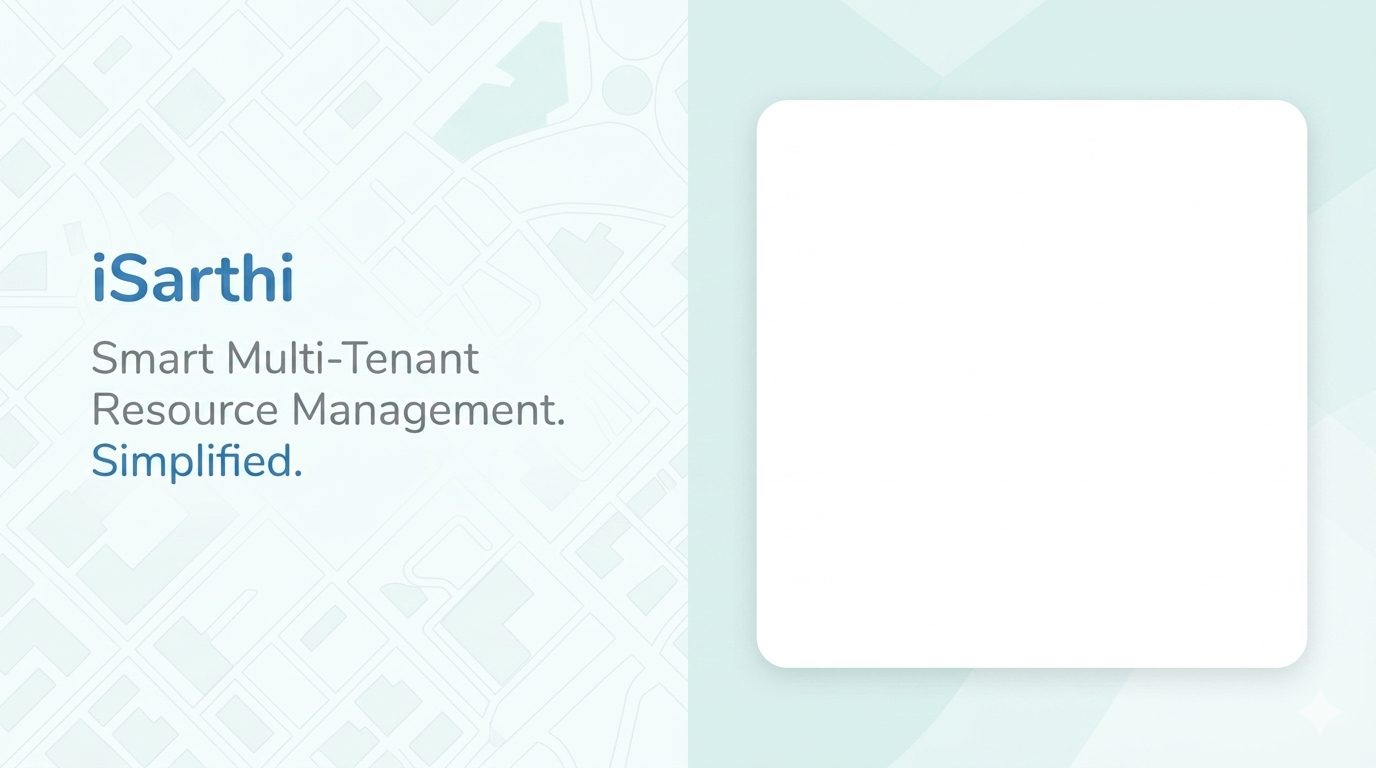
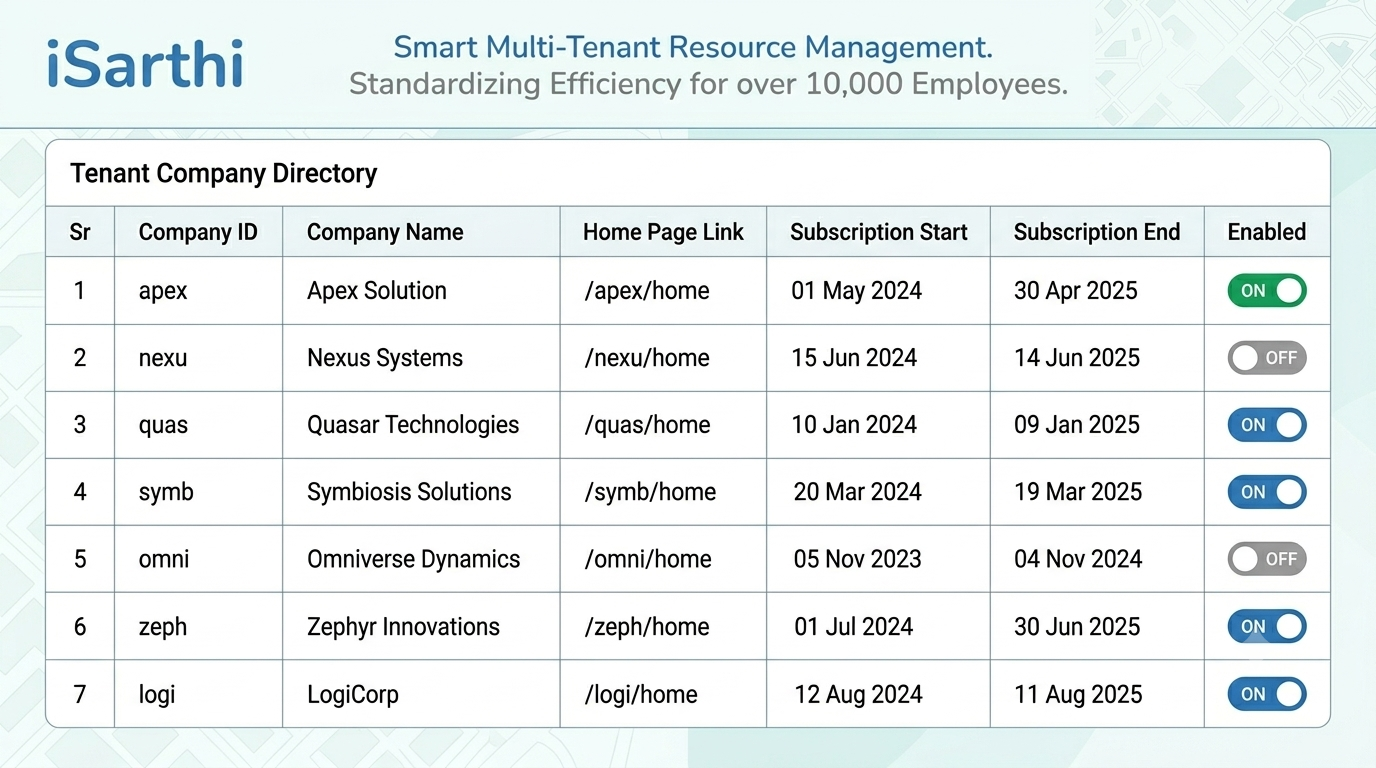
minor UI tweaks

diff --git a/src/app/components/login/vendor-login.component.html b/src/app/components/login/vendor-login.component.html
@@ -1,18 +1,32 @@
-<mat-card>
-  <!--<mat-card-title>Vendor Login</mat-card-title>-->
-  <mat-card-content>
-    <form>
-      <mat-form-field appearance="fill">
-        <mat-label>Username</mat-label>
-        <input matInput [(ngModel)]="username" name="username">
-      </mat-form-field>
+<div class="vendor-login-wrapper">
+  <mat-card class="vendor-login-card">
+    <!--<mat-card-title>Vendor Home (Stub)</mat-card-title>-->
+    <div class="image-container">
+      <img src="/assets/stubs/vendor-login.png" alt="Vendor Login Stub" />
+      <div class="login-overlay">
+        <ng-container *ngTemplateOutlet="loginTemplate"></ng-container>
+      </div>
+    </div>
+  </mat-card>
+</div>
 
-      <mat-form-field appearance="fill">
-        <mat-label>Password</mat-label>
-        <input matInput [(ngModel)]="password" name="password" type="password">
-      </mat-form-field>
+<ng-template #loginTemplate>
+  <mat-card class="vendor-login-form">
+    <!--<mat-card-title>Vendor Login</mat-card-title>-->
+    <mat-card-content>
+      <form>
+        <mat-form-field appearance="fill">
+          <mat-label>Username</mat-label>
+          <input matInput [(ngModel)]="username" name="username">
+        </mat-form-field>
 
-      <button mat-raised-button color="primary" (click)="login()">Login</button>
-    </form>
-  </mat-card-content>
-</mat-card>
+        <mat-form-field appearance="fill">
+          <mat-label>Password</mat-label>
+          <input matInput [(ngModel)]="password" name="password" type="password">
+        </mat-form-field>
+
+        <button mat-raised-button color="primary" (click)="login()">Login</button>
+      </form>
+    </mat-card-content>
+  </mat-card>
+</ng-template>

diff --git a/src/app/components/home/vendor-home.component.scss b/src/app/components/home/vendor-home.component.scss
@@ -23,10 +23,16 @@
   box-shadow: 0 2px 8px rgba(0, 0, 0, 0.2);
 }
 
-.login-overlay {
-  position: absolute;
-  top: 48%;
-  left: 75%;
-  transform: translate(-50%, -50%);
-  width: 250px;
+.vendor-home-card.full-screen-card {
+  width: 100vw;
+  height: 100vh;
+  display: flex;
+  justify-content: center;
+  align-items: center;
+}
+
+.image-container img {
+  width: 100%;
+  height: 100%;
+  object-fit: cover;
 }

diff --git a/src/app/components/navigation/navigation.component.ts b/src/app/components/navigation/navigation.component.ts
@@ -113,6 +113,13 @@ export class NavigationComponent implements OnInit {
     this.menuItems.push({ label: 'Logout', onClick: () => this.logout() });
   }
 
+  handleMenuItemClick(item: MenuItem): void {
+    if (item.onClick) {
+      item.onClick();
+    }
+    this.closeMenu(); // always close after click
+  }
+  
   logout(): void {
     this.authService.logout();
   }

diff --git a/src/app/components/home/employee-home.component.scss b/src/app/components/home/employee-home.component.scss
@@ -50,12 +50,15 @@
     top: 12px;
     left: 16px;
     right: 16px;
-    background: rgba(0, 128, 0, 0.65);
+    background: rgba(170, 5, 5, 0.65);
     color: #fff;
     padding: 8px;
     border-radius: 6px;
     font-weight: bold;
     text-align: center;
+    &.present {
+      background: rgba(0, 128, 0, 0.65);
+    }
   }
 
   .description {

diff --git a/src/app/components/home/vendor-home.component.html b/src/app/components/home/vendor-home.component.html
@@ -3,9 +3,6 @@
     <!--<mat-card-title>Vendor Home (Stub)</mat-card-title>-->
     <div class="image-container">
       <img src="/assets/stubs/vendor-home.png" alt="Vendor Home Stub" />
-      <div class="login-overlay">
-        <app-vendor-login></app-vendor-login>
-      </div>
     </div>
   </mat-card>
 </div>

diff --git a/src/app/app.routes.ts b/src/app/app.routes.ts
@@ -1,4 +1,5 @@
 import { Routes } from '@angular/router';
+import { VendorLoginComponent } from './components/login/vendor-login.component';
 import { VendorHomeComponent } from './components/home/vendor-home.component';
 import { CompanyHomeComponent } from './components/home/company-home.component';
 import { EmployeeHomeComponent } from './components/home/employee-home.component';
@@ -14,6 +15,7 @@ import { LandingComponent } from './components/home/landing.component';
 
 export const routes: Routes = [
   // Vendor routes
+  { path: 'login', component: VendorLoginComponent },
   { path: 'home', component: VendorHomeComponent },
   { path: 'onboarding', component: OnboardingStubComponent },
   { path: 'reports', component: ReportsStubComponent },

diff --git a/src/app/components/home/employee-home.component.html b/src/app/components/home/employee-home.component.html
@@ -11,7 +11,7 @@
   <div id="map" class="map-background"></div>
 
   <!-- Banner aligned top over map -->
-  <div class="banner">
+  <div class="banner" [class.present]="isWithinFence">
     {{ isWithinFence ? 'You are within the office area.' : 'You are outside the office area.' }}
   </div>
 

diff --git a/src/app/components/home/landing.component.ts b/src/app/components/home/landing.component.ts
@@ -12,7 +12,7 @@ export class LandingComponent {
   constructor(private router: Router) {}
 
   goToVendor(): void {
-    this.router.navigate(['/home']);
+    this.router.navigate(['/login']);
   }
 
   goToApexHome(): void {

diff --git a/src/app/components/navigation/navigation.component.html b/src/app/components/navigation/navigation.component.html
@@ -25,7 +25,7 @@
         <a mat-button
             *ngFor="let item of menuItems"
             [routerLink]="item.link"
-            (click)="item.onClick ? item.onClick() : null"
+            (click)="handleMenuItemClick(item)"
             [routerLinkActive]="item.link ? 'active-link' : ''"
           >
           {{ item.label }}